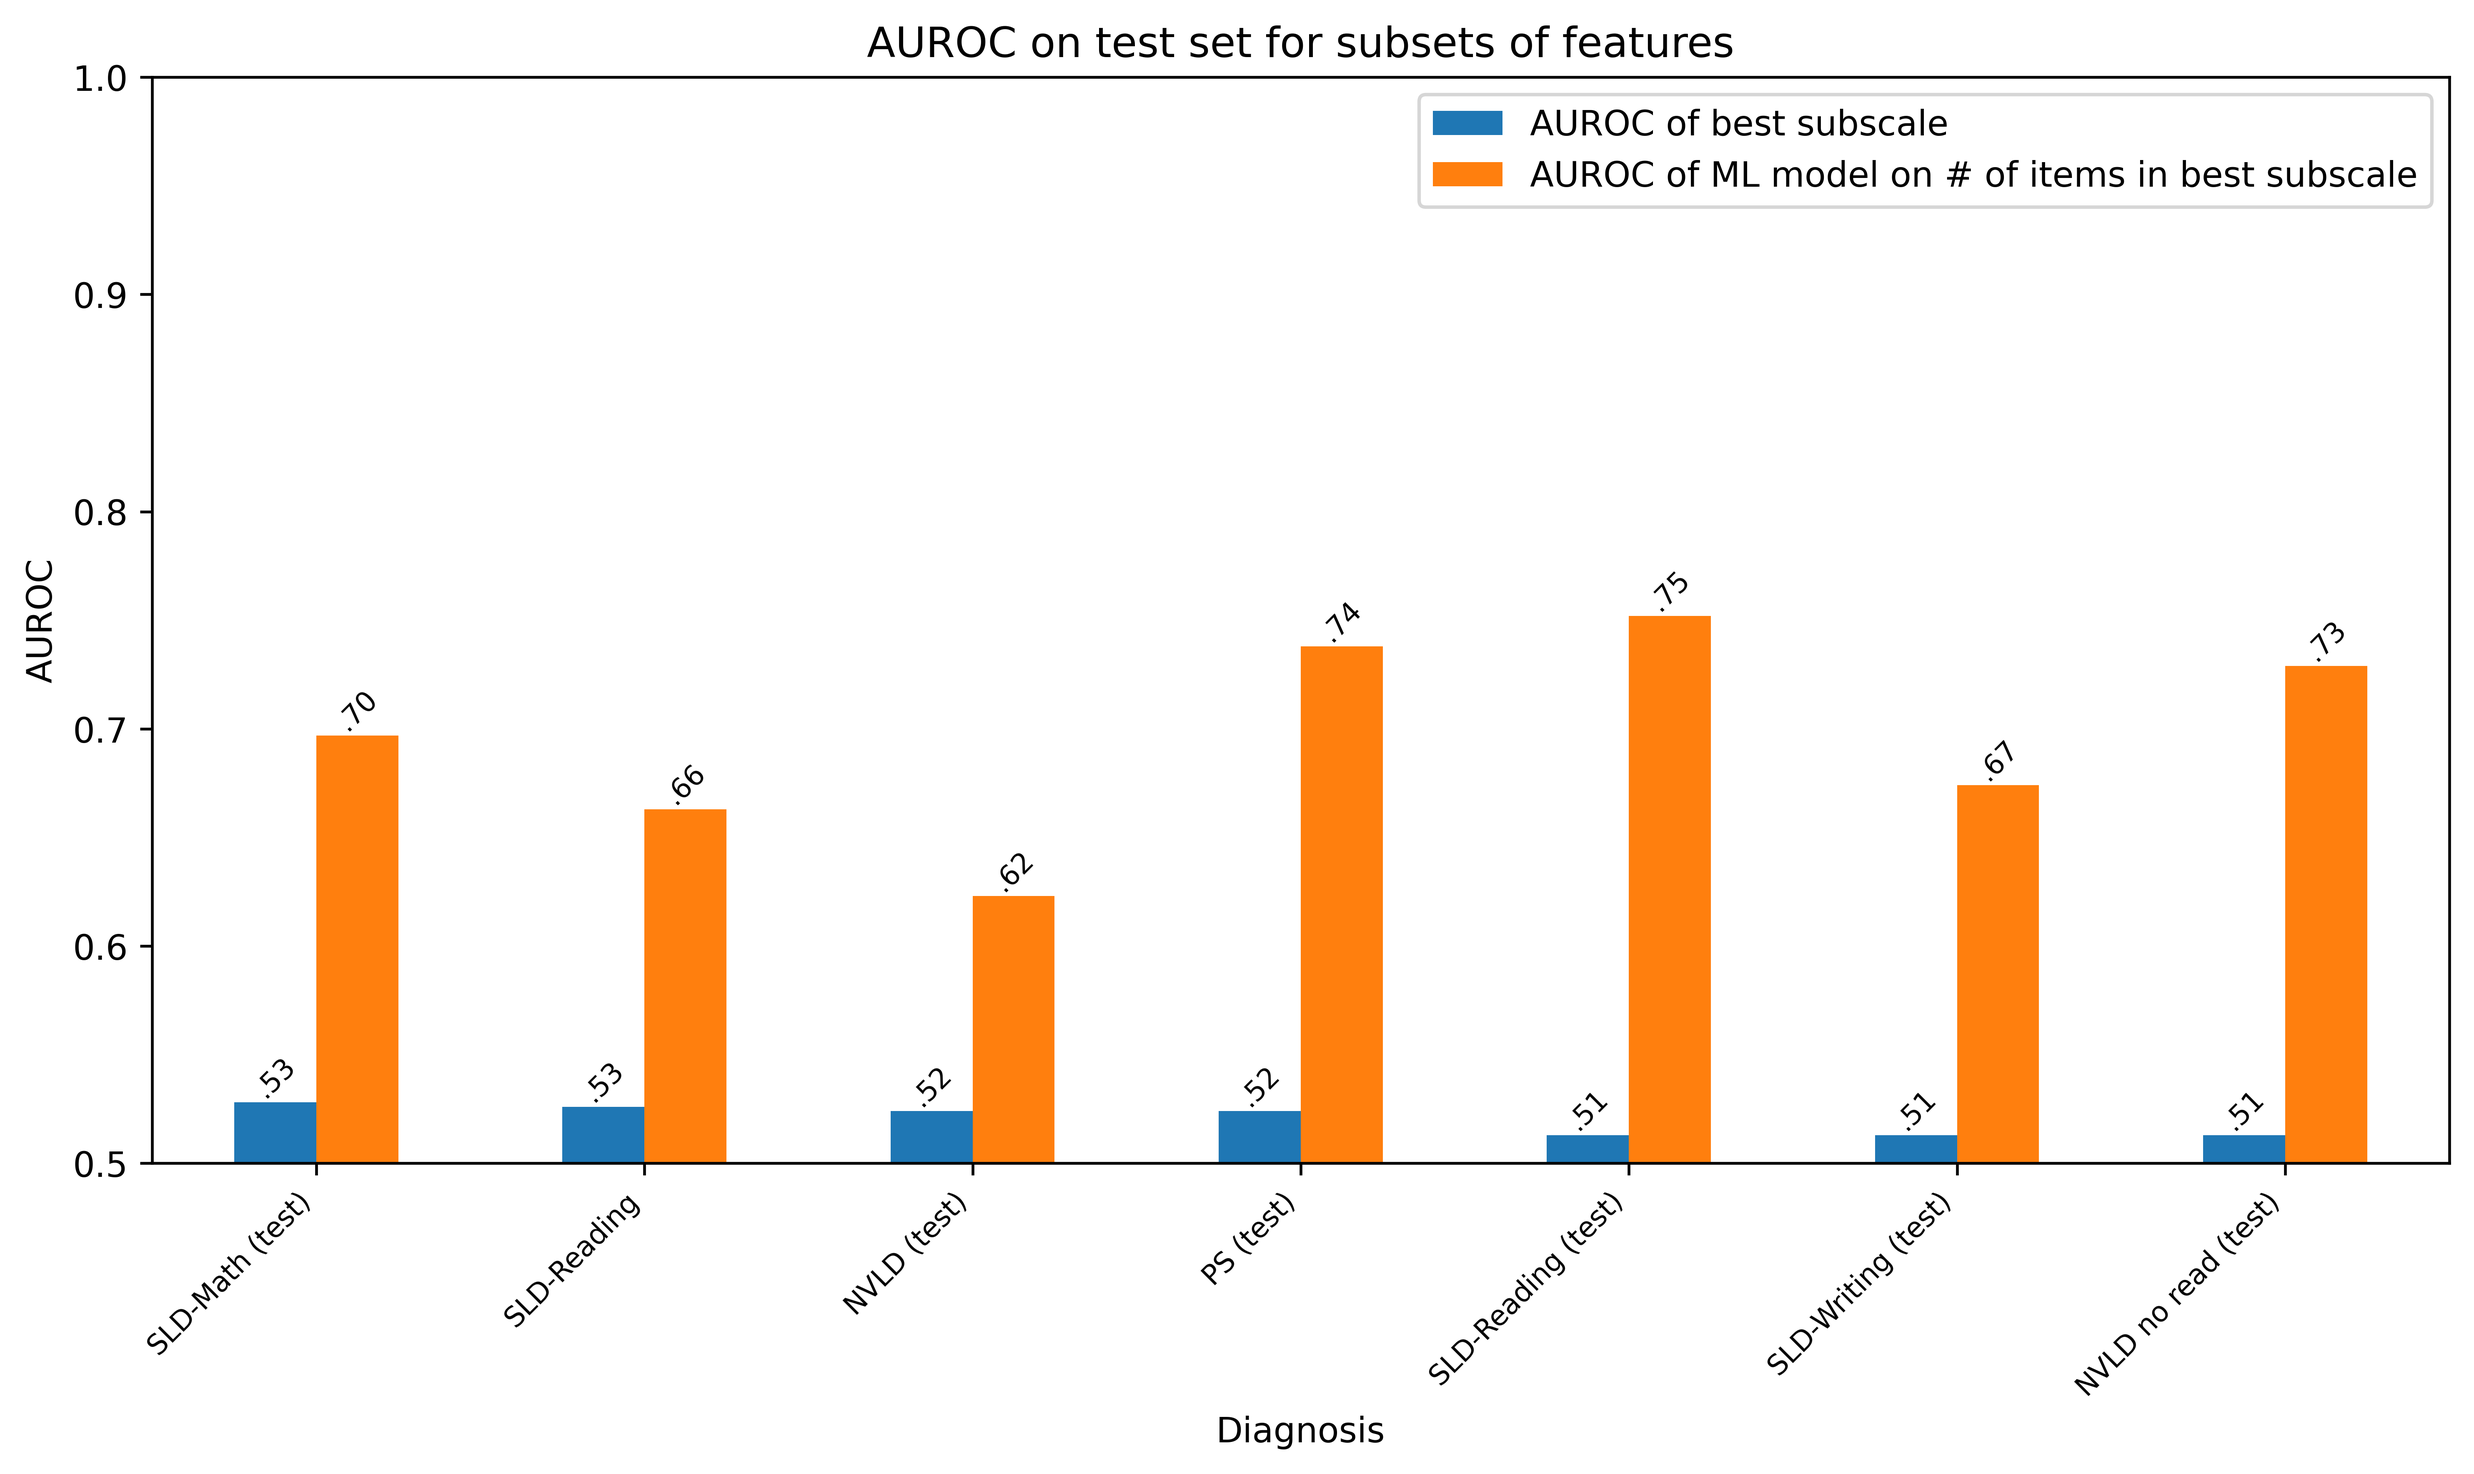
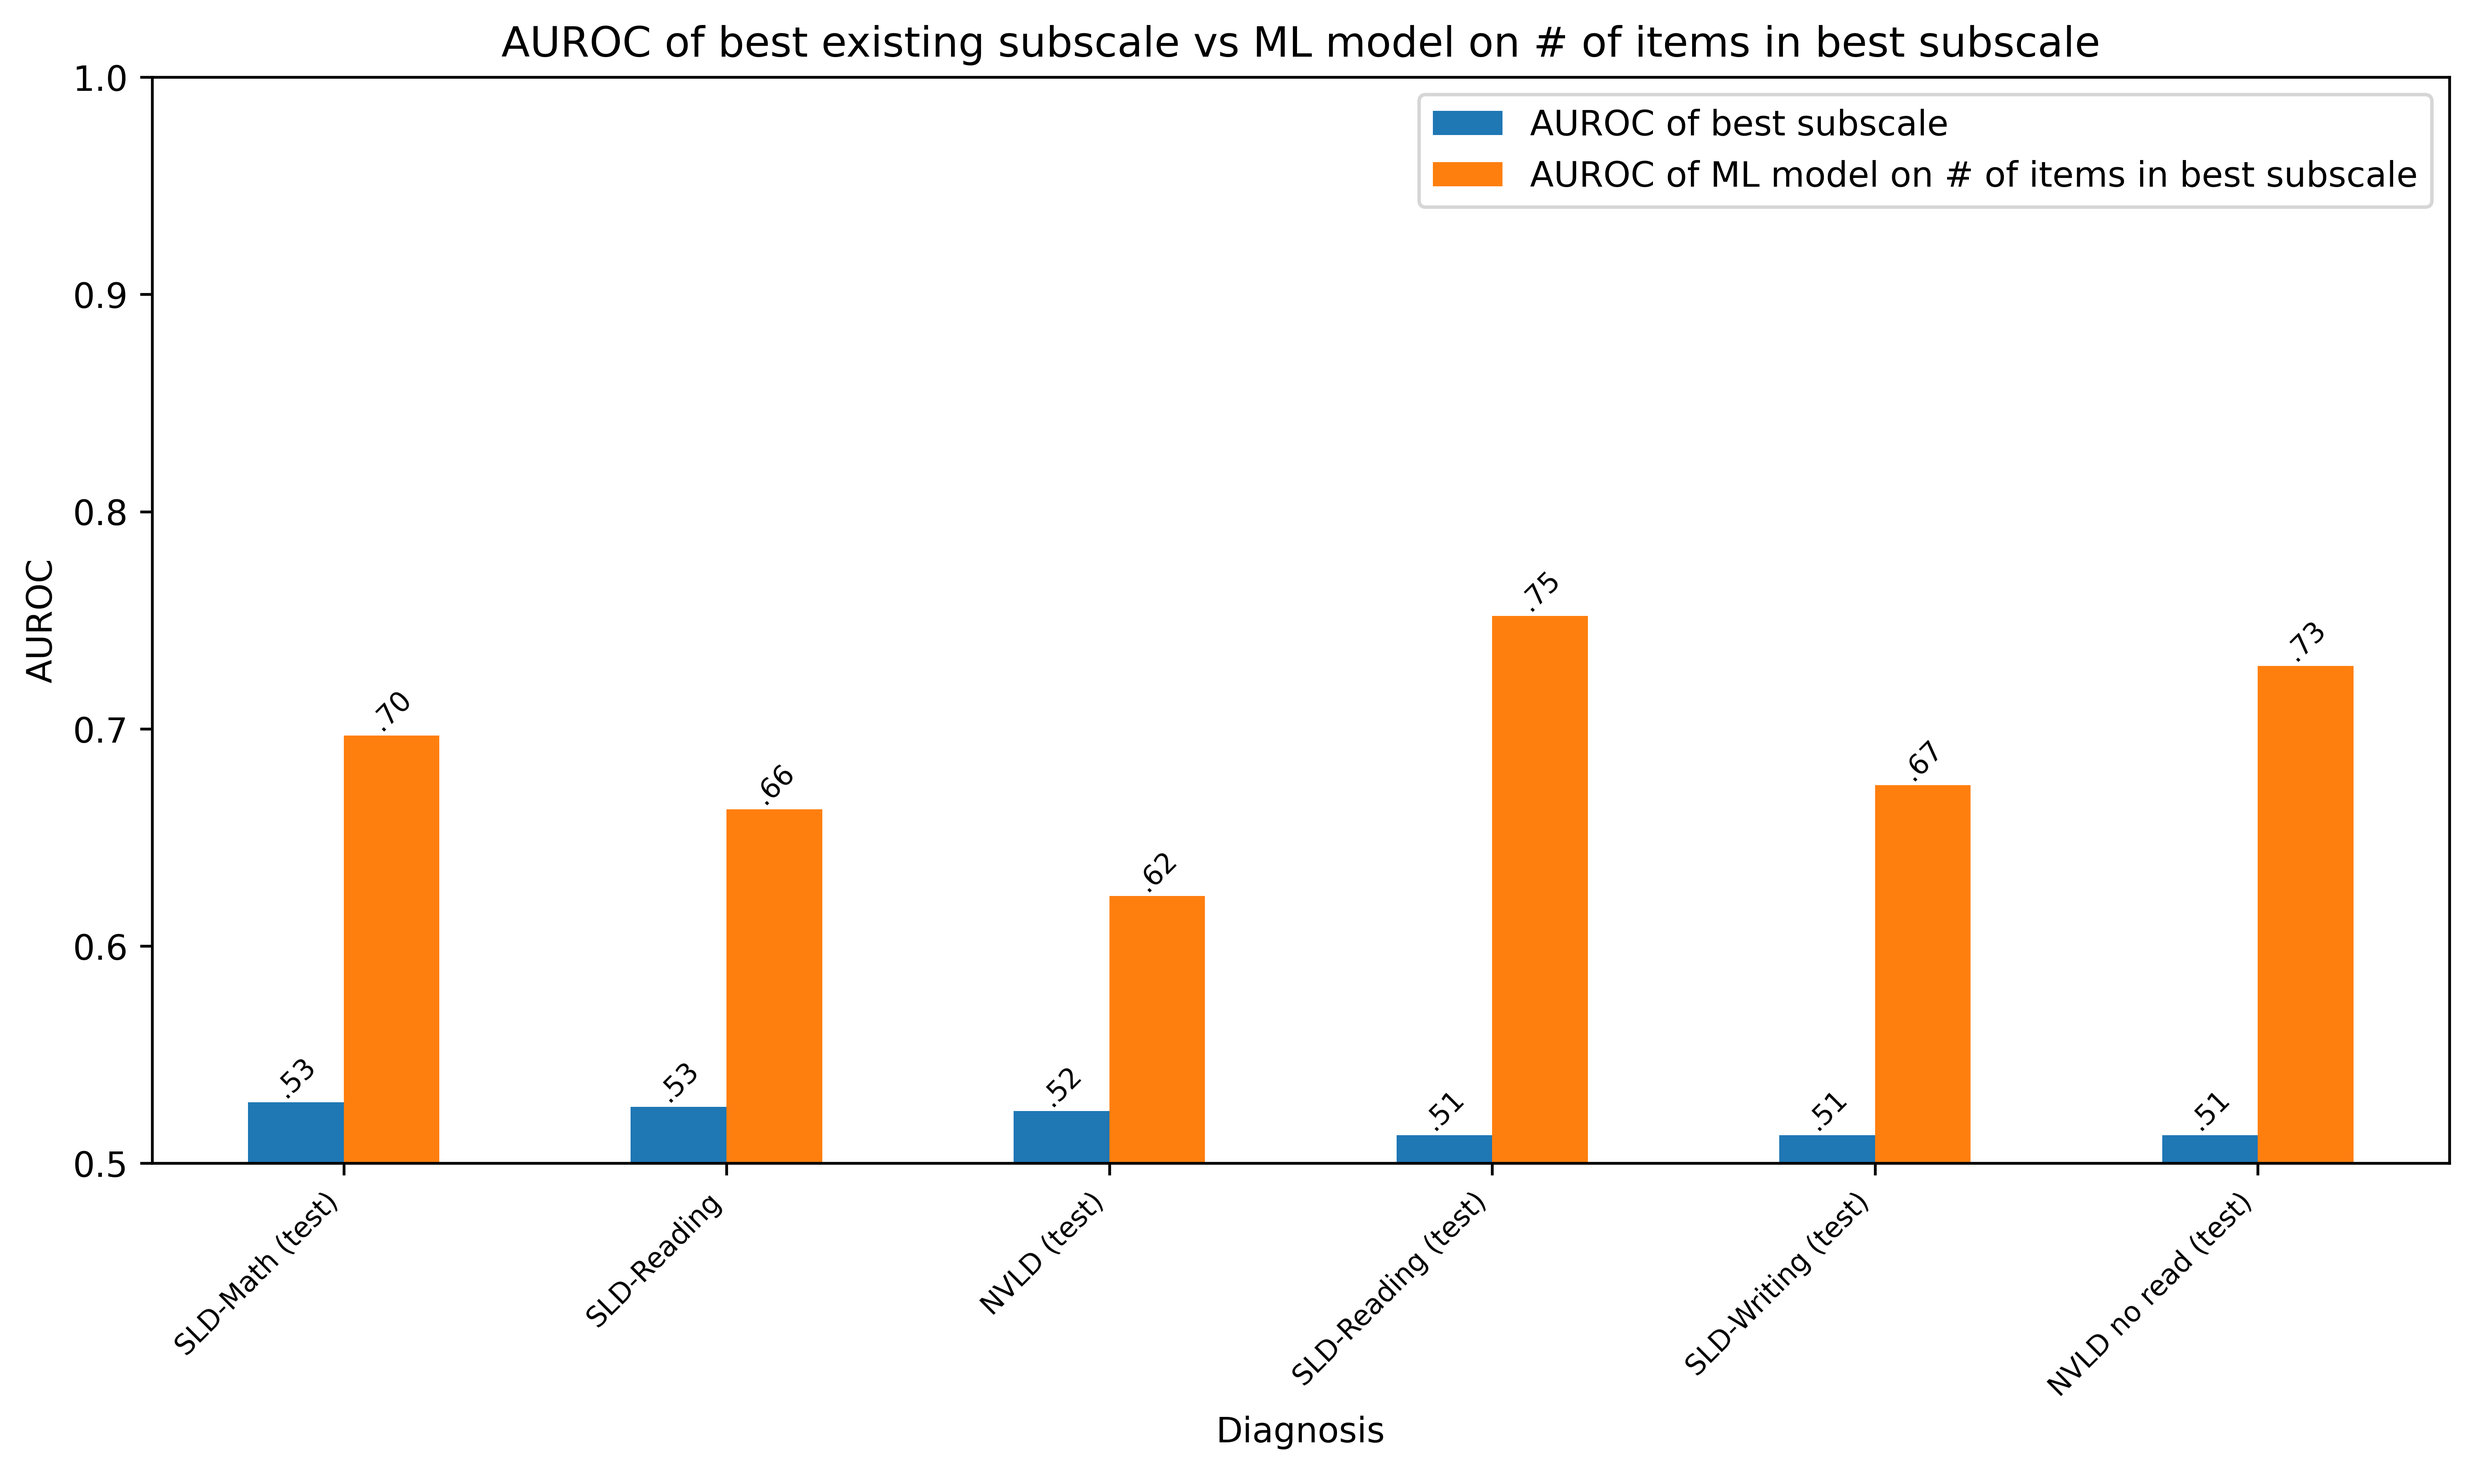
remove any and none diags from average plots

diff --git a/make_plots.py b/make_plots.py
@@ -40,7 +40,6 @@ LDS = [
     'SLD-Writing',
     'SLD-Reading (test)',
     'SLD-Writing (test)',
-    'PS (test)',
     'NVLD (test)',
     'NVLD no read (test)'
 ]
@@ -351,9 +350,10 @@ def make_averages_for_learning_improvements(learning_improvement_df):
         "NIH": "More assessments and NIH"
     }
     index_dict = {
-        "Non LDs": NON_LDS,
+        "Non LDs": [x for x in NON_LDS if x not in ["Any", "None"]], # remove "Any" and "None" from df
         "LDs": LDS,
     }
+    print("DEBUG check that no any and none diags", index_dict)
     df_averages = pd.DataFrame(columns=col_dict.values(), index=index_dict.keys())
     print(df_averages)
 
@@ -374,7 +374,8 @@ def plot_average_learning_improvements(learning_improvement_df):
         df, 
         filename="learning_improvements_averages.png",
         indices=["Non LDs", "LDs"], 
-        cols=df.columns)
+        cols=df.columns,
+        title="AUROC of original models, models with additional assessments, and models with additional assessments and NIH")
 
 def make_averages_for_assessment_subsets(
         df_ml,
@@ -400,6 +401,10 @@ def make_averages_for_assessment_subsets(
     df_averages_ml = pd.DataFrame(col_list)
     df_averages_sum_scores = pd.DataFrame(col_list)
 
+    # Drop any and none diags
+    df_ml = df_ml.drop(["Any", "None"], axis=0)
+    df_sum_scores = df_sum_scores.drop(["Any", "None"], axis=0)
+
     # Make df with averages for each assessment subset
     for index, diags in filename_and_diag_sets_dict.items():
         diags = [diag for diag in diags if diag in df_ml.index]
@@ -415,13 +420,13 @@ def make_averages_for_assessment_subsets(
 
     return df_averages_ml, df_averages_sum_scores, col_list
 
-def plot_averages(df, filename, indices, cols):
+def plot_averages(df, filename, indices, cols, title):
     col_dict = {x:x for x in cols} # Don't need to rename columns
     plot_manual_vs_ml_bars(
         df, 
         diags=indices, 
         filename=filename, 
-        title="AUROC of best existing subscale vs subset sum-score",
+        title=title,
         col_dict=col_dict)
         
 def plot_group_bar_plots_for_subsets(df_ml, df_sum_scores):
@@ -481,7 +486,7 @@ def plot_group_bar_plots_for_subsets(df_ml, df_sum_scores):
                 df_ml, 
                 diags=diags, 
                 filename=f"ROC_AUC_subsets_bars_{filename}_{col_set_name}.png", 
-                title="AUROC on test set for subsets of features",
+                title="AUROC of best existing subscale vs ML model on # of items in best subscale",
                 col_dict=col_set)
     for filename, diags in filename_and_diag_sets_dict.items():
         for col_set_name, col_set in filename_and_col_sets_dict_sum_scores.items():
@@ -502,11 +507,13 @@ def plot_group_bar_plots_for_subsets(df_ml, df_sum_scores):
     plot_averages(df_averages_ml, 
                   filename="ROC_AUC_averages_ml.png", 
                   indices=filename_and_diag_sets_dict.keys(), 
-                  cols=col_list)
+                  cols=col_list,
+                  title="AUROC of best existing subscale vs ML model on # of items in best subscale")
     plot_averages(df_averages_sum_scores, 
                   filename="ROC_AUC_averages_sum_scores.png", 
                   indices=filename_and_diag_sets_dict.keys(), 
-                  cols=col_list)
+                  cols=col_list, 
+                  title="AUROC of best existing subscale vs subset sum-score")
     
 def get_opt_n_features_per_diag(df):
     df = df[["Optimal # of features all assessments parent and sr", 
@@ -670,7 +677,7 @@ def main():
 
     #plot_learning_improvements(learning_improvement_df)
     #plot_learning_improvements_bars(learning_improvement_df)
-    #plot_average_learning_improvements(learning_improvement_df)
+    plot_average_learning_improvements(learning_improvement_df)
 
     #opt_n_features_per_diag = get_opt_n_features_per_diag(compare_orig_subsets_df)
     #plot_saturation_plots(saturation_dfs, opt_n_features_per_diag)
